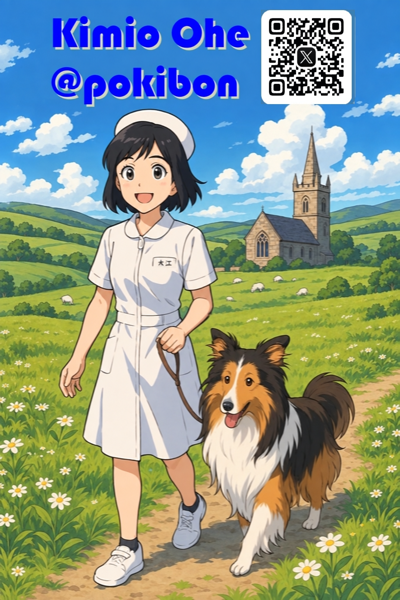
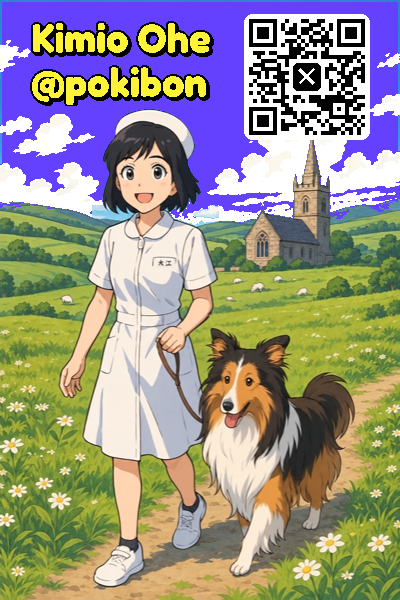
PaperColor: load badge image from SD, deep-sleep EPD after refresh, new badge art
- Load /pokibon-transfer.png from microSD at startup (fallback to the
  embedded image if missing or undecodable)
- Put the ED2208 panel into DEEP_SLEEP after each refresh and wake it
  with an RST pulse before the next one
- New badge image: yellow/black text, regenerated QR code, sky in EPD
  primaries to avoid dithering (font variants in assets/badge_variants,
  previous image kept as pokibon-transfer_old.png)
- README: SD card badge image

Claude-Session: https://claude.ai/code/session_01Bvq9mznyvXXZhdCnho3ijq

Changed region(s): [[0.0, 0.0, 1.0, 0.39]]

diff --git a/src/PaperColorUi.cpp b/src/PaperColorUi.cpp
@@ -7,6 +7,8 @@
 #include <Arduino.h>
 #include <M5Unified.h>
 #include <esp32-hal-rmt.h>
+#include <SD.h>
+#include <SPI.h>
 
 namespace {
 
@@ -68,9 +70,57 @@ void led_write(const LedColor (&colors)[kLedCount])
     rmtWriteBlocking(s_led_rmt, data, kLedCount * 24);
 }
 
+// Built-in fallback badge image (used when the SD card image is unavailable).
 extern "C" {
 extern const uint8_t badge_image_start[] asm("_binary_assets_pokibon_transfer_png_start");
 extern const uint8_t badge_image_end[] asm("_binary_assets_pokibon_transfer_png_end");
+}
+
+// Badge image on the microSD card. The card shares SPI2 with the E-Ink panel
+// (SCK 15 / MISO 14 / MOSI 13, SD CS 47), so it is read only from the display
+// task, once at startup, into PSRAM. Reboot to pick up a new image.
+constexpr int kSdCsPin = 47;
+constexpr int kSdSckPin = 15;
+constexpr int kSdMisoPin = 14;
+constexpr int kSdMosiPin = 13;
+constexpr uint32_t kSdFreqHz = 20000000;
+constexpr const char *kBadgeImagePath = "/pokibon-transfer.png";
+constexpr size_t kBadgeImageMaxBytes = 4 * 1024 * 1024;
+const uint8_t *s_badge_data = nullptr;
+size_t s_badge_size = 0;
+
+void load_badge_image()
+{
+    s_badge_data = badge_image_start;
+    s_badge_size = static_cast<size_t>(badge_image_end - badge_image_start);
+
+    SPI.begin(kSdSckPin, kSdMisoPin, kSdMosiPin, kSdCsPin);
+    if (!SD.begin(kSdCsPin, SPI, kSdFreqHz)) {
+        Serial.println("PaperColor: SD card not found; using built-in badge image");
+        return;
+    }
+    File f = SD.open(kBadgeImagePath, FILE_READ);
+    if (!f) {
+        Serial.printf("PaperColor: %s not found on SD; using built-in badge image\n", kBadgeImagePath);
+        SD.end();
+        return;
+    }
+    const size_t size = f.size();
+    uint8_t *buf = (size > 0 && size <= kBadgeImageMaxBytes)
+        ? static_cast<uint8_t *>(ps_malloc(size)) : nullptr;
+    const size_t read = buf ? f.read(buf, size) : 0;
+    f.close();
+    SD.end();
+    if (!buf || read != size) {
+        Serial.printf("PaperColor: failed to read %s (%u bytes); using built-in badge image\n",
+                      kBadgeImagePath, static_cast<unsigned>(size));
+        free(buf);
+        return;
+    }
+    s_badge_data = buf;
+    s_badge_size = size;
+    Serial.printf("PaperColor: badge image loaded from SD %s (%u bytes)\n",
+                  kBadgeImagePath, static_cast<unsigned>(size));
 }
 
 struct UiState {
@@ -112,11 +162,17 @@ void request_redraw()
 void draw_badge(M5Canvas &canvas)
 {
     canvas.fillSprite(TFT_WHITE);
-    const size_t image_size = static_cast<size_t>(badge_image_end - badge_image_start);
-    const bool ok = canvas.drawPng(
-        badge_image_start, image_size,
-        0, 0, canvas.width(), canvas.height(),
-        0, 0, 1.0F, 1.0F, middle_center);
+    auto draw = [&](const uint8_t *data, size_t size) {
+        return data && canvas.drawPng(data, size,
+            0, 0, canvas.width(), canvas.height(),
+            0, 0, 1.0F, 1.0F, middle_center);
+    };
+    bool ok = draw(s_badge_data, s_badge_size);
+    if (!ok && s_badge_data != badge_image_start) {
+        Serial.println("PaperColor: SD badge image decode failed; using built-in image");
+        canvas.fillSprite(TFT_WHITE);
+        ok = draw(badge_image_start, static_cast<size_t>(badge_image_end - badge_image_start));
+    }
     if (!ok) {
         canvas.setTextDatum(middle_center);
         canvas.setTextColor(TFT_RED, TFT_WHITE);
@@ -216,6 +272,29 @@ void draw_settings(M5Canvas &canvas, const UiState &state)
     canvas.drawString("A+B: BADGE / SETTINGS", w / 2, 583);
 }
 
+// E-Ink panel (ED2208) power handling.
+// After each refresh the panel controller is put into DEEP_SLEEP so it is not
+// left in standby between updates. DEEP_SLEEP can only be exited by a hardware
+// reset, and M5GFX's wakeup() just re-sends the init sequence, so pulse the
+// EPD RST line (GPIO12 on PaperColor) before waking it.
+constexpr int kEpdResetPin = 12;
+
+void epd_sleep()
+{
+    M5.Display.waitDisplay();
+    M5.Display.sleep();
+}
+
+void epd_wakeup()
+{
+    pinMode(kEpdResetPin, OUTPUT);
+    digitalWrite(kEpdResetPin, LOW);
+    vTaskDelay(pdMS_TO_TICKS(20));
+    digitalWrite(kEpdResetPin, HIGH);
+    vTaskDelay(pdMS_TO_TICKS(20));
+    M5.Display.wakeup();  // re-runs the panel init sequence (waits for BUSY)
+}
+
 void display_task(void *)
 {
     M5Canvas canvas(&M5.Display);
@@ -227,7 +306,10 @@ void display_task(void *)
         vTaskDelete(nullptr);
     }
 
+    load_badge_image();
+
     uint32_t rendered_revision = UINT32_MAX;
+    bool panel_sleeping = false;
     while (true) {
         const UiState state = snapshot_ui();
         if (state.revision != rendered_revision) {
@@ -236,7 +318,13 @@ void display_task(void *)
             } else {
                 draw_badge(canvas);
             }
-            canvas.pushSprite(0, 0);
+            if (panel_sleeping) {
+                epd_wakeup();
+                panel_sleeping = false;
+            }
+            canvas.pushSprite(0, 0);  // transfers and refreshes the panel
+            epd_sleep();
+            panel_sleeping = true;
             rendered_revision = state.revision;
         }
         ulTaskNotifyTake(pdTRUE, portMAX_DELAY);

diff --git a/README.md b/README.md
@@ -84,7 +84,9 @@ M5StickS3、M5AtomS3 + Atomic Echo Base、M5Paper Colorで動作する、WiFi音
     - 値は範囲端で折り返し（CH 1-13、VOL 1-5、VOICE M1-M3）
     - 画面描画中もキー入力を受け付け、最後の操作から1秒後に保存・再描画
 - 設定画面には最終受信時のRSSI（`LAST RX`）も表示します。
-- 名札画像は`assets/pokibon-transfer.png`をファームウェアへ埋め込みます。
+- 名札画像は起動時にmicroSDカードのルートの`pokibon-transfer.png`（400x600推奨のPNG）を読み込みます。
+  - SDカードが無い、ファイルが無い、読み込み/デコードに失敗した場合は、ファームウェアに埋め込んだ`assets/pokibon-transfer.png`を表示します。
+  - 画像を差し替えたら再起動してください。
 
 #### ネックストラップケース（3Dプリント）
 
